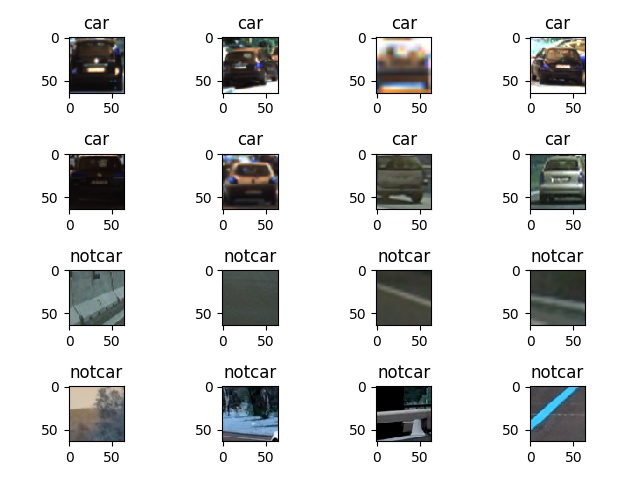
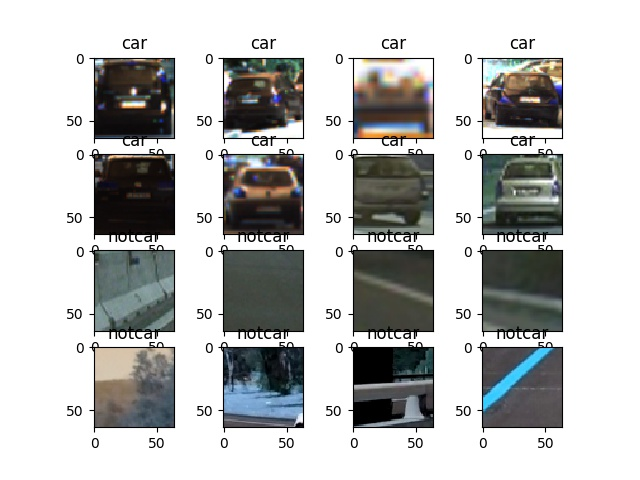
Writup edits, new images

diff --git a/vehicles.py b/vehicles.py
@@ -35,6 +35,7 @@ class vehicles:
         self.conv_clf = conv_classifier()
         self.debug = False
         self.debug_prefix = 'output'
+        self.debug_increment = False
 
     def process_image(self, image):
         '''
@@ -77,20 +78,26 @@ class vehicles:
         window_img = draw_labeled_bboxes(draw_image, self.labels)
 
         if self.debug:
+            my_prefix = self.debug_prefix
+            if self.debug_increment:
+                my_prefix = '{}{}'.format(my_prefix, self.img_out_counter)
             search_windows_img = draw_boxes(self.img, windows, color=(255, 0, 255), thick=1) 
             hot_window_img = draw_boxes(self.img, hot_windows, color=(255, 0, 255), thick=4)                    
-            cv2.imwrite('output_images/{}_search_windows.jpg'.format(self.debug_prefix), cv2.cvtColor(search_windows_img, cv2.COLOR_RGB2BGR))
+            cv2.imwrite('output_images/{}_search_windows.jpg'.format(my_prefix), cv2.cvtColor(search_windows_img, cv2.COLOR_RGB2BGR))
             # TODO: add heatmap plot here instead of writing image
             fig, ax = plt.subplots( nrows=1, ncols=1)
             ax.imshow(self.heat_map, cmap='hot')
-            plt.savefig('output_images/{}_heat_map.jpg'.format(self.debug_prefix))
+            plt.savefig('output_images/{}_heat_map.jpg'.format(my_prefix))
             fig, ax = plt.subplots( nrows=1, ncols=1)
             ax.imshow(self.prethresh_heat_map, cmap='hot')
-            plt.savefig('output_images/{}_prethresh_heat_map.jpg'.format(self.debug_prefix))
+            plt.savefig('output_images/{}_prethresh_heat_map.jpg'.format(my_prefix))
             fig, ax = plt.subplots( nrows=1, ncols=1)
             ax.imshow(self.labels[0], cmap='gray')
-            plt.savefig('output_images/{}_labels.jpg'.format(self.debug_prefix))
-            cv2.imwrite('output_images/{}_hot_windows.jpg'.format(self.debug_prefix), cv2.cvtColor(hot_window_img, cv2.COLOR_RGB2BGR))
+            plt.savefig('output_images/{}_labels.jpg'.format(my_prefix))
+            cv2.imwrite('output_images/{}_hot_windows.jpg'.format(my_prefix), cv2.cvtColor(hot_window_img, cv2.COLOR_RGB2BGR))
+            cv2.imwrite('output_images/{}_final.jpg'.format(my_prefix), cv2.cvtColor(window_img, cv2.COLOR_RGB2BGR))
+            if self.debug_increment:
+                self.img_out_counter += 1
 
         return window_img
 

diff --git a/data_vis.py b/data_vis.py
@@ -53,7 +53,6 @@ if __name__ == "__main__":
     ax[3][2].set_title('notcar')
     ax[3][3].set_title('notcar')
 
-    plt.tight_layout()
     plt.savefig('output_images/dataset_sample.jpg')
 
     params = get_default_classifier_parameters()
@@ -70,7 +69,6 @@ if __name__ == "__main__":
     ax[1][1].imshow(notcar_feature_img, cmap='gray')
     ax[1][0].set_title('notcar')
     ax[1][1].set_title('notcar HOG features')
-    plt.tight_layout()
     plt.savefig('output_images/hog_images.jpg')
 
     test_images = []
@@ -85,7 +83,44 @@ if __name__ == "__main__":
     ax[1][1].imshow(test_images[3])
     ax[2][0].imshow(test_images[4])
     ax[2][1].imshow(test_images[5])
-    plt.tight_layout()
     plt.savefig('output_images/test_images.jpg')
 
-        
+    hot_images = []
+
+    for i in range(1,7):
+        hot_images.append(cv2.cvtColor(cv2.imread('output_images/test{}_hot_windows.jpg'.format(i)), cv2.COLOR_BGR2RGB))
+
+    fig, ax = plt.subplots(ncols=2, nrows=3)
+    ax[0][0].imshow(hot_images[0])
+    ax[0][1].imshow(hot_images[1])
+    ax[1][0].imshow(hot_images[2])
+    ax[1][1].imshow(hot_images[3])
+    ax[2][0].imshow(hot_images[4])
+    ax[2][1].imshow(hot_images[5])
+    plt.savefig('output_images/hot_windows.jpg')
+
+    hot_images = []
+
+    for i in range(8,14):
+        hot_images.append(cv2.cvtColor(cv2.imread('output_images/Video{}_hot_windows.jpg'.format(i)), cv2.COLOR_BGR2RGB))
+
+    prethresh_heat_maps = []
+
+    for i in range(8,14):
+        prethresh_heat_maps.append(cv2.cvtColor(cv2.imread('output_images/Video{}_prethresh_heat_map.jpg'.format(i)), cv2.COLOR_BGR2RGB))
+   
+    heat_maps = []
+
+    for i in range(8,14):
+        heat_maps.append(cv2.cvtColor(cv2.imread('output_images/Video{}_heat_map.jpg'.format(i)), cv2.COLOR_BGR2RGB))
+   
+    fig, ax = plt.subplots(figsize=(12.8, 25.6), ncols=3, nrows=6)
+    for i in range(0,6):
+        ax[i][0].imshow(hot_images[i])
+        ax[i][0].set_title('hot_windows')
+        ax[i][1].imshow(prethresh_heat_maps[i])
+        ax[i][1].set_title('pre-threshold')
+        ax[i][2].imshow(heat_maps[i])
+        ax[i][2].set_title('heatmap')
+    plt.savefig('output_images/all_heat_maps.jpg')
+

diff --git a/vehicle_detection.py b/vehicle_detection.py
@@ -61,9 +61,10 @@ if __name__ == "__main__":
 
     current_vehicles = vehicles(clf, class_params, X_scaler)
     current_vehicles.debug = args.debug
-    current_vehicles.debug_prefix = args.output_image
 
     if (args.test_image == None):
+        current_vehicles.debug_prefix = 'Video'
+        current_vehicles.debug_increment = True
         print("Processing video file:{}".format(args.test_video))
         # TODO : add code to handle processing of a video 
         if args.subclip_start is None:
@@ -73,6 +74,7 @@ if __name__ == "__main__":
         vid_clip = clip1.fl_image(current_vehicles.process_image)
         vid_clip.write_videofile(args.output_video, audio=False)
     else:
+        current_vehicles.debug_prefix = args.output_image
         # test undistortion of a calibration image
         print("processing test image...")
  

diff --git a/svm_classifier_params.py b/svm_classifier_params.py
@@ -1,0 +1,21 @@
+import cv2
+import numpy as np
+import matplotlib.image as mpimg
+import matplotlib.pyplot as plt
+from tqdm import tqdm
+from os.path import basename
+from sklearn.svm import LinearSVC, SVC
+from sklearn.preprocessing import StandardScaler
+from skimage.feature import hog
+from sklearn.model_selection import train_test_split, GridSearchCV
+import pickle
+from sklearn.externals import joblib
+
+
+
+if __name__ == "__main__":
+    print("Loading classifier from classifier.p...")
+    classifier_data = joblib.load('classifier.p')
+    clf = classifier_data['clf']
+    X_scaler = classifier_data['X_scaler']
+    print(clf.best_params_)

diff --git a/writeup.md b/writeup.md
@@ -15,14 +15,15 @@ The goals / steps of this project are the following:
 * Estimate a bounding box for vehicles detected.
 
 [//]: # (Image References)
-[image1]: ./examples/car_not_car.png
-[image2]: ./examples/HOG_example.jpg
-[image3]: ./examples/sliding_windows.jpg
-[image4]: ./examples/sliding_window.jpg
-[image5]: ./examples/bboxes_and_heat.png
-[image6]: ./examples/labels_map.png
-[image7]: ./examples/output_bboxes.png
-[video1]: ./project_video.mp4
+[dataset]: ./output_images/dataset_sample.jpg
+[hog_images]: ./output_images/hog_images.jpg
+[windows]: ./output_images/test1_search_windows.jpg
+[hot_windows]: ./output_images/hot_windows.jpg
+[vehicle_detect]: ./output_images/vehicle_detect.jpg
+[labels]: ./output_images/Video14_labels.jpg
+[all_heat]: ./output_images/all_heat_maps.jpg
+[final]: ./output_images/Video14_final.jpg
+[video1]: ./video_out.mp4
 
 ## [Rubric](https://review.udacity.com/#!/rubrics/513/view) Points
 ### Here I will consider the rubric points individually and describe how I addressed each point in my implementation.  
@@ -38,63 +39,92 @@ You're reading it!
 
 #### 1. Explain how (and identify where in your code) you extracted HOG features from the training images.
 
-The code for this step is contained in the first code cell of the IPython notebook (or in lines # through # of the file called `some_file.py`).  
+The code for this step is contained in the create_classifier function of utils.py[lines 215-258]. This function calls the extract_features function of utils.py[lines 119-138]. 
+
+The extract features functions takes several parameters: list of images to extract features from, colorspace conversion, spatial size (for spatial features), number of histogram bins (for color features), number of orientation bins for HOG gradient histogram, pixels per cell for HOG extraction, cells per block for HOG extraction, color channels to use for HOG extraction, and which features to extract. This function will then first perform any color space conversion specified, then extract the requested features (spatial, color, HOG) and return the feature vector for each image.
 
 I started by reading in all the `vehicle` and `non-vehicle` images.  Here is an example of one of each of the `vehicle` and `non-vehicle` classes:
 
-![alt text][image1]
+![alt text][dataset]
 
-I then explored different color spaces and different `skimage.hog()` parameters (`orientations`, `pixels_per_cell`, and `cells_per_block`).  I grabbed random images from each of the two classes and displayed them to get a feel for what the `skimage.hog()` output looks like.
+I then did online research and explored different color spaces and different `skimage.hog()` parameters (`orientations`, `pixels_per_cell`, and `cells_per_block`). Using the supplied test images, I ran the feature extraction and detection on those images to determine which parameters provided the best results with the least compute.
 
-Here is an example using the `YCrCb` color space and HOG parameters of `orientations=8`, `pixels_per_cell=(8, 8)` and `cells_per_block=(2, 2)`:
+Here is an example using the the final chosen parameters:`YUV` color space and HOG parameters of `orientations=11`, `pixels_per_cell=(16, 16)` and `cells_per_block=(2, 2)`:
 
-
-![alt text][image2]
+![alt text][hog_images]
 
 #### 2. Explain how you settled on your final choice of HOG parameters.
 
-I tried various combinations of parameters and...
+I first implemented a similar mechanism to analyze both single images and full video (with the option of using subclips) by reusing code from the previous project (Advanced Lane Finding). With this framework implemented, I then implemented the SVM training and classification. After this, I was able to experiment with different HOG parameters (including spatial and color features) over both the test images and full video. 
+
+I first started with the parameters from the class lectures, and tried several color spaces including LUV, HSV, YUV and YCrCb, along with choosing to use 'ALL' channels and single channels. Having settled on the YUV colorspace, I then experimented with different orientation bins, pixels per cell and cells per block. Using color_space=YUV, orient=11, pixels_per_cell=(16,16) cells_per_block=(2,2) yeilded satisfactory results, and was my final parameter set.
 
 #### 3. Describe how (and identify where in your code) you trained a classifier using your selected HOG features (and color features if you used them).
 
-I trained a linear SVM using...
+Initially I started with just a single classifier, an SVM trained using the spatial, color and HOG parameters. This classifier was trained using GridSearchCV with the grid parameters of {'kernel':('linear', 'rbf'), 'C':[1,10]}.
+
+However, the training times were very long and the inference times were also very long, limiting the number of sliding windows I was able to use for classification.
+
+This led me to re-use the Convolutional Neural Network that I implemented in the Traffic Sign Detection project by adjusting the input image size and the final logit count to identify car vs. not-car. The convolutional network classifier worked two orders of magnitude faster (due to the use of a GPU for inferencing and training), allowing me to have many more sliding windows. However, the classifier worked a bit to well, identifying cars in more search windows than desired, and had some trouble in shadowed areas. 
+
+With this result, I decided to create a 2-stage classifier. With the very fast inference speed of the convolutional neural network, I ran this first across the entire set of sliding windows. The resulting subset of "hot windows" were then run through the trained SVM classifier to obtain a high-confidence set of "hot windows". 
+
+The SVM classifier is trained using the create_classifier function in utils.py [lines 216-158]. The final SVM classifier only used HOG features with color_space=YUV, orient=11, pixels_per_cell=(16,16) cells_per_block=(2,2). Using the GridSeachCV method with parameters {'kernel':('linear', 'rbf'), 'C':[1,10]}, the resulting trained SVM best parameters were {'kernel':('linear', 'rbf'), 'C':[1,10]}. These results were then saved for later use using sklearn.externals.joblib. The final classifier was pickled along with the X_scaler facture for use in later runs.
+
+The Convolution Neural Network training was done entirely in a separate script, train_classifier.py. This script was largely pulled from my implementation of the Traffic Sign Classification project with some modifications to move from a Jupyter notebook to a stand-alone script. This classifier was then saved off using the session saving capabilities of TensorFlow to be used during vehicle detection.
+
+Both classifiers were trained with the car/notcar dataset that was provided.
 
 ### Sliding Window Search
 
 #### 1. Describe how (and identify where in your code) you implemented a sliding window search.  How did you decide what scales to search and how much to overlap windows?
 
-I decided to search random window positions at random scales all over the image and came up with this (ok just kidding I didn't actually ;):
+The sliding windows were generated based on the code from the lectures. Each set of sliding windows was generated using the slide_windows function in utils.py[lines 141 to 186].
 
-![alt text][image3]
+| window  | y start | y stop | overlap |
+|:-------:|:-------:|:------:|:-------:|
+| 64x64   |  400    |   480  |  90%    |
+| 96x96   |  400    |   528  |  90%    |
+| 128x128 |  400    |   560  |  90%    |
+| 196x196 |  400    |   719  |  90%    |
+
+This resulted in a total of 1834 windows, show here:
+
+![alt text][windows]
+
 
 #### 2. Show some examples of test images to demonstrate how your pipeline is working.  What did you do to optimize the performance of your classifier?
 
-Ultimately I searched on two scales using YCrCb 3-channel HOG features plus spatially binned color and histograms of color in the feature vector, which provided a nice result.  Here are some example images:
+The sliding window search was the done on this set of windows using the search_windows_conv function in vehicles.py [lines 97 to 123]. The full set of windows is batched to the convolutional neural network for classification. This is completed very quickly using the GPU. The resulting windows which have a classification as 'car' are then passed to the SVM classifier for a second pass. All resulting 'car' classifications become the set of hot windows. Sample results are show below:
 
-![alt text][image4]
+![alt text][hot_windows]
 ---
 
 ### Video Implementation
 
 #### 1. Provide a link to your final video output.  Your pipeline should perform reasonably well on the entire project video (somewhat wobbly or unstable bounding boxes are ok as long as you are identifying the vehicles most of the time with minimal false positives.)
-Here's a [link to my video result](./project_video.mp4)
+Here's a [link to my video result](./video_out.mp4)
 
 
 #### 2. Describe how (and identify where in your code) you implemented some kind of filter for false positives and some method for combining overlapping bounding boxes.
 
-I recorded the positions of positive detections in each frame of the video.  From the positive detections I created a heatmap and then thresholded that map to identify vehicle positions.  I then used `scipy.ndimage.measurements.label()` to identify individual blobs in the heatmap.  I then assumed each blob corresponded to a vehicle.  I constructed bounding boxes to cover the area of each blob detected.  
+The full vehicle detection pipeline is show below:
 
-Here's an example result showing the heatmap from a series of frames of video, the result of `scipy.ndimage.measurements.label()` and the bounding boxes then overlaid on the last frame of video:
+![alt text][vehicle_detect]
+
+The hot windows for each frame are saved (for a maximum of ten frames). From the positive detections I created a heatmap and then applied a threshold of 8 to that map to identify vehicle positions. I then used `scipy.ndimage.measurements.label()` to identify individual blobs in the heatmap.  I then assumed each blob corresponded to a vehicle.  I constructed bounding boxes to cover the area of each blob detected.  
+
+Here's an example result showing the heatmap from 6 consecutive frames of the project video, the result of `scipy.ndimage.measurements.label()` and the bounding boxes then overlaid on the frames:
 
 ### Here are six frames and their corresponding heatmaps:
 
-![alt text][image5]
+![alt text][all_heat]
 
 ### Here is the output of `scipy.ndimage.measurements.label()` on the integrated heatmap from all six frames:
-![alt text][image6]
+![alt text][labels]
 
 ### Here the resulting bounding boxes are drawn onto the last frame in the series:
-![alt text][image7]
+![alt text][final]
 
 
 
